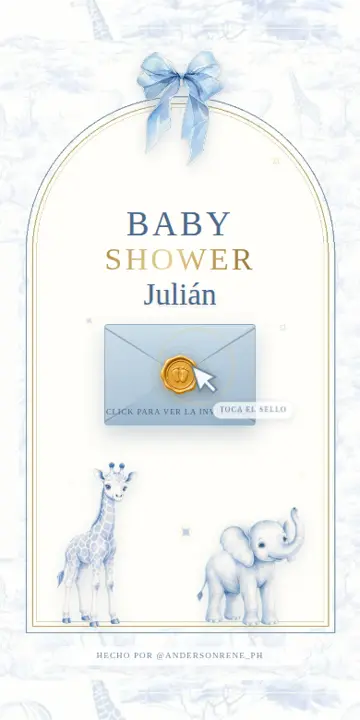
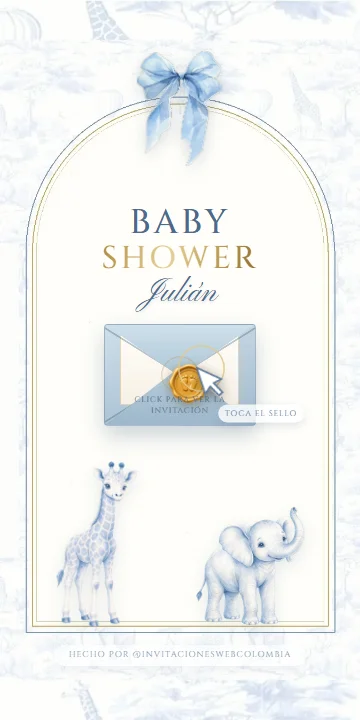
Cambiar creditos personales por @invitacioneswebcolombia

diff --git a/index.html b/index.html
@@ -16,7 +16,7 @@
   <link rel="icon" href="assets/favicon.svg" type="image/svg+xml">
   <link rel="manifest" href="site.webmanifest">
   <link rel="stylesheet" href="css/estilos.css">
-  <script type="application/ld+json">{"@context": "https://schema.org", "@type": "FAQPage", "mainEntity": [{"@type": "Question", "name": "¿En cuánto tiempo recibo mi invitación?", "acceptedAnswer": {"@type": "Answer", "text": "Entre 24 y 48 horas después de que nos envíes tus datos y fotos. Las invitaciones Premium, con más detalles, pueden tardar hasta 3 días."}}, {"@type": "Question", "name": "¿Cuánto tiempo estará activa mi invitación?", "acceptedAnswer": {"@type": "Answer", "text": "Funciona desde el día que te la entregamos hasta después de tu evento, para que tus invitados puedan volver a verla: Básica hasta 7 días después del evento, Personalizada hasta 1 mes después y Premium hasta 3 meses después."}}, {"@type": "Question", "name": "¿Puedo personalizar mi invitación?", "acceptedAnswer": {"@type": "Answer", "text": "Sí. Todas llevan tus nombres, fecha, lugar y música. Desde el paquete Personalizada también puedes poner tus fotos y elegir los colores y el diseño."}}, {"@type": "Question", "name": "¿Puedo pedir cambios?", "acceptedAnswer": {"@type": "Answer", "text": "Sí. Antes de entregarla te la mostramos para que pidas ajustes. Si después cambia la hora o el lugar del evento, la actualizamos sin costo."}}, {"@type": "Question", "name": "¿Qué es una invitación animada?", "acceptedAnswer": {"@type": "Answer", "text": "Es una página web que se abre como un sobre con sello de cera, con música, cuenta regresiva, mapa del lugar y un botón para confirmar asistencia por WhatsApp."}}, {"@type": "Question", "name": "¿Mis invitados pueden subir fotos o pedir canciones?", "acceptedAnswer": {"@type": "Answer", "text": "Sí, en el paquete Premium. Tus invitados suben las fotos que toman durante el evento y así guardas los recuerdos desde todos los ángulos. También pueden recomendar canciones para la fiesta. Sirve para bodas, 15 años, cumpleaños y cualquier celebración."}}, {"@type": "Question", "name": "¿Cómo la comparto?", "acceptedAnswer": {"@type": "Answer", "text": "Te entregamos un link. Lo envías por WhatsApp, Instagram, Facebook o correo. Tus invitados la abren en el celular sin instalar nada."}}, {"@type": "Question", "name": "¿Envían algo físico?", "acceptedAnswer": {"@type": "Answer", "text": "No. Es 100 % digital, así que atendemos clientes en cualquier país."}}, {"@type": "Question", "name": "¿Quién diseña las invitaciones?", "acceptedAnswer": {"@type": "Answer", "text": "Un fotógrafo profesional, @andersonrene_ph, que cuida la luz, los colores y cada detalle."}}, {"@type": "Question", "name": "¿Cómo pago?", "acceptedAnswer": {"@type": "Answer", "text": "Escríbenos por WhatsApp y te enviamos las formas de pago para Colombia y para el exterior."}}]}</script>
+  <script type="application/ld+json">{"@context": "https://schema.org", "@type": "FAQPage", "mainEntity": [{"@type": "Question", "name": "¿En cuánto tiempo recibo mi invitación?", "acceptedAnswer": {"@type": "Answer", "text": "Entre 24 y 48 horas después de que nos envíes tus datos y fotos. Las invitaciones Premium, con más detalles, pueden tardar hasta 3 días."}}, {"@type": "Question", "name": "¿Cuánto tiempo estará activa mi invitación?", "acceptedAnswer": {"@type": "Answer", "text": "Funciona desde el día que te la entregamos hasta después de tu evento, para que tus invitados puedan volver a verla: Básica hasta 7 días después del evento, Personalizada hasta 1 mes después y Premium hasta 3 meses después."}}, {"@type": "Question", "name": "¿Puedo personalizar mi invitación?", "acceptedAnswer": {"@type": "Answer", "text": "Sí. Todas llevan tus nombres, fecha, lugar y música. Desde el paquete Personalizada también puedes poner tus fotos y elegir los colores y el diseño."}}, {"@type": "Question", "name": "¿Puedo pedir cambios?", "acceptedAnswer": {"@type": "Answer", "text": "Sí. Antes de entregarla te la mostramos para que pidas ajustes. Si después cambia la hora o el lugar del evento, la actualizamos sin costo."}}, {"@type": "Question", "name": "¿Qué es una invitación animada?", "acceptedAnswer": {"@type": "Answer", "text": "Es una página web que se abre como un sobre con sello de cera, con música, cuenta regresiva, mapa del lugar y un botón para confirmar asistencia por WhatsApp."}}, {"@type": "Question", "name": "¿Mis invitados pueden subir fotos o pedir canciones?", "acceptedAnswer": {"@type": "Answer", "text": "Sí, en el paquete Premium. Tus invitados suben las fotos que toman durante el evento y así guardas los recuerdos desde todos los ángulos. También pueden recomendar canciones para la fiesta. Sirve para bodas, 15 años, cumpleaños y cualquier celebración."}}, {"@type": "Question", "name": "¿Cómo la comparto?", "acceptedAnswer": {"@type": "Answer", "text": "Te entregamos un link. Lo envías por WhatsApp, Instagram, Facebook o correo. Tus invitados la abren en el celular sin instalar nada."}}, {"@type": "Question", "name": "¿Envían algo físico?", "acceptedAnswer": {"@type": "Answer", "text": "No. Es 100 % digital, así que atendemos clientes en cualquier país."}}, {"@type": "Question", "name": "¿Quién diseña las invitaciones?", "acceptedAnswer": {"@type": "Answer", "text": "El equipo de Invitaciones Web Colombia (@invitacioneswebcolombia), que cuida la luz, los colores y cada detalle."}}, {"@type": "Question", "name": "¿Cómo pago?", "acceptedAnswer": {"@type": "Answer", "text": "Escríbenos por WhatsApp y te enviamos las formas de pago para Colombia y para el exterior."}}]}</script>
 </head>
 <body class="boutique-page">
   <header class="site-header boutique-header" id="inicio">
@@ -209,7 +209,7 @@
         <details class="faq__item"><summary>¿Mis invitados pueden subir fotos o pedir canciones?</summary><p>Sí, en el paquete Premium. Tus invitados suben las fotos que toman durante el evento y así guardas los recuerdos desde todos los ángulos. También pueden recomendar canciones para la fiesta. Sirve para bodas, 15 años, cumpleaños y cualquier celebración.</p></details>
         <details class="faq__item"><summary>¿Cómo la comparto?</summary><p>Te entregamos un link. Lo envías por WhatsApp, Instagram, Facebook o correo. Tus invitados la abren en el celular sin instalar nada.</p></details>
         <details class="faq__item"><summary>¿Envían algo físico?</summary><p>No. Es 100 % digital, así que atendemos clientes en cualquier país.</p></details>
-        <details class="faq__item"><summary>¿Quién diseña las invitaciones?</summary><p>Un fotógrafo profesional, @andersonrene_ph, que cuida la luz, los colores y cada detalle.</p></details>
+        <details class="faq__item"><summary>¿Quién diseña las invitaciones?</summary><p>El equipo de Invitaciones Web Colombia (@invitacioneswebcolombia), que cuida la luz, los colores y cada detalle.</p></details>
         <details class="faq__item"><summary>¿Cómo pago?</summary><p>Escríbenos por WhatsApp y te enviamos las formas de pago para Colombia y para el exterior.</p></details>
       </div>
     </section>
@@ -225,7 +225,7 @@
 
   <footer class="footer">
     <p>Invitaciones Web Colombia</p>
-    <span><a href="politicas/">Politicas</a> · <a href="terminos/">Terminos</a> · <a href="https://www.instagram.com/invitacioneswebcolombia/" target="_blank" rel="noopener">Instagram</a> · <a href="https://www.instagram.com/andersonrene_ph/" target="_blank" rel="noopener">Hecho por @andersonrene_ph</a></span>
+    <span><a href="politicas/">Politicas</a> · <a href="terminos/">Terminos</a> · <a href="https://www.instagram.com/invitacioneswebcolombia/" target="_blank" rel="noopener">Instagram</a> · <a href="https://www.instagram.com/invitacioneswebcolombia/" target="_blank" rel="noopener">Hecho por @invitacioneswebcolombia</a></span>
   </footer>
 
   <script src="js/config.js"></script>

diff --git a/demos/baby-shower-azul/index.html b/demos/baby-shower-azul/index.html
@@ -65,8 +65,8 @@
     </div>
 
     </div><!-- /portada__contenido -->
-    <a class="credito credito--portada" href="https://www.instagram.com/andersonrene_ph/" target="_blank" rel="noopener">
-      Hecho por @andersonrene_ph
+    <a class="credito credito--portada" href="https://www.instagram.com/invitacioneswebcolombia/" target="_blank" rel="noopener">
+      Hecho por @invitacioneswebcolombia
     </a>
   </div>
 </div>
@@ -216,8 +216,8 @@
   </div>
 
   <footer class="pie">
-    <a class="credito credito--pie" href="https://www.instagram.com/andersonrene_ph/" target="_blank" rel="noopener">
-      Hecho por @andersonrene_ph
+    <a class="credito credito--pie" href="https://www.instagram.com/invitacioneswebcolombia/" target="_blank" rel="noopener">
+      Hecho por @invitacioneswebcolombia
     </a>
   </footer>
 </main>

diff --git a/plantillas/baby-shower-thiago/index.html b/plantillas/baby-shower-thiago/index.html
@@ -63,8 +63,8 @@
     </div>
 
     </div><!-- /portada__contenido -->
-    <a class="credito credito--portada" href="https://www.instagram.com/andersonrene_ph/" target="_blank" rel="noopener">
-      Hecho por @andersonrene_ph
+    <a class="credito credito--portada" href="https://www.instagram.com/invitacioneswebcolombia/" target="_blank" rel="noopener">
+      Hecho por @invitacioneswebcolombia
     </a>
   </div>
 </div>
@@ -214,8 +214,8 @@
   </div>
 
   <footer class="pie">
-    <a class="credito credito--pie" href="https://www.instagram.com/andersonrene_ph/" target="_blank" rel="noopener">
-      Hecho por @andersonrene_ph
+    <a class="credito credito--pie" href="https://www.instagram.com/invitacioneswebcolombia/" target="_blank" rel="noopener">
+      Hecho por @invitacioneswebcolombia
     </a>
   </footer>
 </main>

diff --git a/invitaciones-revelacion-genero/index.html b/invitaciones-revelacion-genero/index.html
@@ -92,7 +92,7 @@
   </main>
 
   <a class="float-wa" href="https://wa.me/573025299255?text=Hola%2C%20quiero%20una%20invitacion%20web.%20Tipo%20de%20evento%3A%20Invitaciones%20digitales%20para%20revelacion%20de%20genero" target="_blank" rel="noopener" aria-label="Pedir por WhatsApp">WA</a>
-  <footer class="footer"><p>Invitaciones Web Colombia</p><a href="https://www.instagram.com/andersonrene_ph/" target="_blank" rel="noopener">Hecho por @andersonrene_ph</a></footer>
+  <footer class="footer"><p>Invitaciones Web Colombia</p><a href="https://www.instagram.com/invitacioneswebcolombia/" target="_blank" rel="noopener">Hecho por @invitacioneswebcolombia</a></footer>
   <script src="../js/config.js"></script>
   <script src="../js/app.js"></script>
 </body>

diff --git a/invitaciones-primera-comunion/index.html b/invitaciones-primera-comunion/index.html
@@ -92,7 +92,7 @@
   </main>
 
   <a class="float-wa" href="https://wa.me/573025299255?text=Hola%2C%20quiero%20una%20invitacion%20web.%20Tipo%20de%20evento%3A%20Invitaciones%20web%20para%20primera%20comunion" target="_blank" rel="noopener" aria-label="Pedir por WhatsApp">WA</a>
-  <footer class="footer"><p>Invitaciones Web Colombia</p><a href="https://www.instagram.com/andersonrene_ph/" target="_blank" rel="noopener">Hecho por @andersonrene_ph</a></footer>
+  <footer class="footer"><p>Invitaciones Web Colombia</p><a href="https://www.instagram.com/invitacioneswebcolombia/" target="_blank" rel="noopener">Hecho por @invitacioneswebcolombia</a></footer>
   <script src="../js/config.js"></script>
   <script src="../js/app.js"></script>
 </body>

diff --git a/invitaciones-web-quinceanos/index.html b/invitaciones-web-quinceanos/index.html
@@ -92,7 +92,7 @@
   </main>
 
   <a class="float-wa" href="https://wa.me/573025299255?text=Hola%2C%20quiero%20una%20invitacion%20web.%20Tipo%20de%20evento%3A%20Invitaciones%20digitales%20para%20quinceanos" target="_blank" rel="noopener" aria-label="Pedir por WhatsApp">WA</a>
-  <footer class="footer"><p>Invitaciones Web Colombia</p><a href="https://www.instagram.com/andersonrene_ph/" target="_blank" rel="noopener">Hecho por @andersonrene_ph</a></footer>
+  <footer class="footer"><p>Invitaciones Web Colombia</p><a href="https://www.instagram.com/invitacioneswebcolombia/" target="_blank" rel="noopener">Hecho por @invitacioneswebcolombia</a></footer>
   <script src="../js/config.js"></script>
   <script src="../js/app.js"></script>
 </body>

diff --git a/invitaciones-baby-shower/index.html b/invitaciones-baby-shower/index.html
@@ -92,7 +92,7 @@
   </main>
 
   <a class="float-wa" href="https://wa.me/573025299255?text=Hola%2C%20quiero%20una%20invitacion%20web.%20Tipo%20de%20evento%3A%20Invitaciones%20web%20para%20baby%20shower" target="_blank" rel="noopener" aria-label="Pedir por WhatsApp">WA</a>
-  <footer class="footer"><p>Invitaciones Web Colombia</p><a href="https://www.instagram.com/andersonrene_ph/" target="_blank" rel="noopener">Hecho por @andersonrene_ph</a></footer>
+  <footer class="footer"><p>Invitaciones Web Colombia</p><a href="https://www.instagram.com/invitacioneswebcolombia/" target="_blank" rel="noopener">Hecho por @invitacioneswebcolombia</a></footer>
   <script src="../js/config.js"></script>
   <script src="../js/app.js"></script>
 </body>

diff --git a/invitaciones-bautizo/index.html b/invitaciones-bautizo/index.html
@@ -92,7 +92,7 @@
   </main>
 
   <a class="float-wa" href="https://wa.me/573025299255?text=Hola%2C%20quiero%20una%20invitacion%20web.%20Tipo%20de%20evento%3A%20Invitaciones%20digitales%20para%20bautizo" target="_blank" rel="noopener" aria-label="Pedir por WhatsApp">WA</a>
-  <footer class="footer"><p>Invitaciones Web Colombia</p><a href="https://www.instagram.com/andersonrene_ph/" target="_blank" rel="noopener">Hecho por @andersonrene_ph</a></footer>
+  <footer class="footer"><p>Invitaciones Web Colombia</p><a href="https://www.instagram.com/invitacioneswebcolombia/" target="_blank" rel="noopener">Hecho por @invitacioneswebcolombia</a></footer>
   <script src="../js/config.js"></script>
   <script src="../js/app.js"></script>
 </body>

diff --git a/invitaciones-cumpleanos/index.html b/invitaciones-cumpleanos/index.html
@@ -92,7 +92,7 @@
   </main>
 
   <a class="float-wa" href="https://wa.me/573025299255?text=Hola%2C%20quiero%20una%20invitacion%20web.%20Tipo%20de%20evento%3A%20Invitaciones%20web%20para%20cumpleanos" target="_blank" rel="noopener" aria-label="Pedir por WhatsApp">WA</a>
-  <footer class="footer"><p>Invitaciones Web Colombia</p><a href="https://www.instagram.com/andersonrene_ph/" target="_blank" rel="noopener">Hecho por @andersonrene_ph</a></footer>
+  <footer class="footer"><p>Invitaciones Web Colombia</p><a href="https://www.instagram.com/invitacioneswebcolombia/" target="_blank" rel="noopener">Hecho por @invitacioneswebcolombia</a></footer>
   <script src="../js/config.js"></script>
   <script src="../js/app.js"></script>
 </body>

diff --git a/invitaciones-web-bodas/index.html b/invitaciones-web-bodas/index.html
@@ -92,7 +92,7 @@
   </main>
 
   <a class="float-wa" href="https://wa.me/573025299255?text=Hola%2C%20quiero%20una%20invitacion%20web.%20Tipo%20de%20evento%3A%20Invitaciones%20web%20para%20bodas" target="_blank" rel="noopener" aria-label="Pedir por WhatsApp">WA</a>
-  <footer class="footer"><p>Invitaciones Web Colombia</p><a href="https://www.instagram.com/andersonrene_ph/" target="_blank" rel="noopener">Hecho por @andersonrene_ph</a></footer>
+  <footer class="footer"><p>Invitaciones Web Colombia</p><a href="https://www.instagram.com/invitacioneswebcolombia/" target="_blank" rel="noopener">Hecho por @invitacioneswebcolombia</a></footer>
   <script src="../js/config.js"></script>
   <script src="../js/app.js"></script>
 </body>

diff --git a/catalogo/index.html b/catalogo/index.html
@@ -67,7 +67,7 @@
   <a class="float-wa" href="https://wa.me/573025299255?text=Hola%2C%20quiero%20una%20invitacion%20web%20para%20mi%20evento." target="_blank" rel="noopener" aria-label="Pedir por WhatsApp">WA</a>
   <footer class="footer">
     <p>Invitaciones Web Colombia</p>
-    <a href="https://www.instagram.com/andersonrene_ph/" target="_blank" rel="noopener">Hecho por @andersonrene_ph</a>
+    <a href="https://www.instagram.com/invitacioneswebcolombia/" target="_blank" rel="noopener">Hecho por @invitacioneswebcolombia</a>
   </footer>
   <script src="../js/config.js"></script>
   <script src="../js/templates.js"></script>

diff --git a/pedido/index.html b/pedido/index.html
@@ -112,7 +112,7 @@
   <a class="float-wa" href="https://wa.me/573025299255?text=Hola%2C%20quiero%20una%20invitacion%20web%20para%20mi%20evento." target="_blank" rel="noopener" aria-label="Pedir por WhatsApp">WA</a>
   <footer class="footer">
     <p>Invitaciones Web Colombia</p>
-    <a href="https://www.instagram.com/andersonrene_ph/" target="_blank" rel="noopener">Hecho por @andersonrene_ph</a>
+    <a href="https://www.instagram.com/invitacioneswebcolombia/" target="_blank" rel="noopener">Hecho por @invitacioneswebcolombia</a>
   </footer>
   <script src="../js/config.js"></script>
   <script src="../js/app.js"></script>
